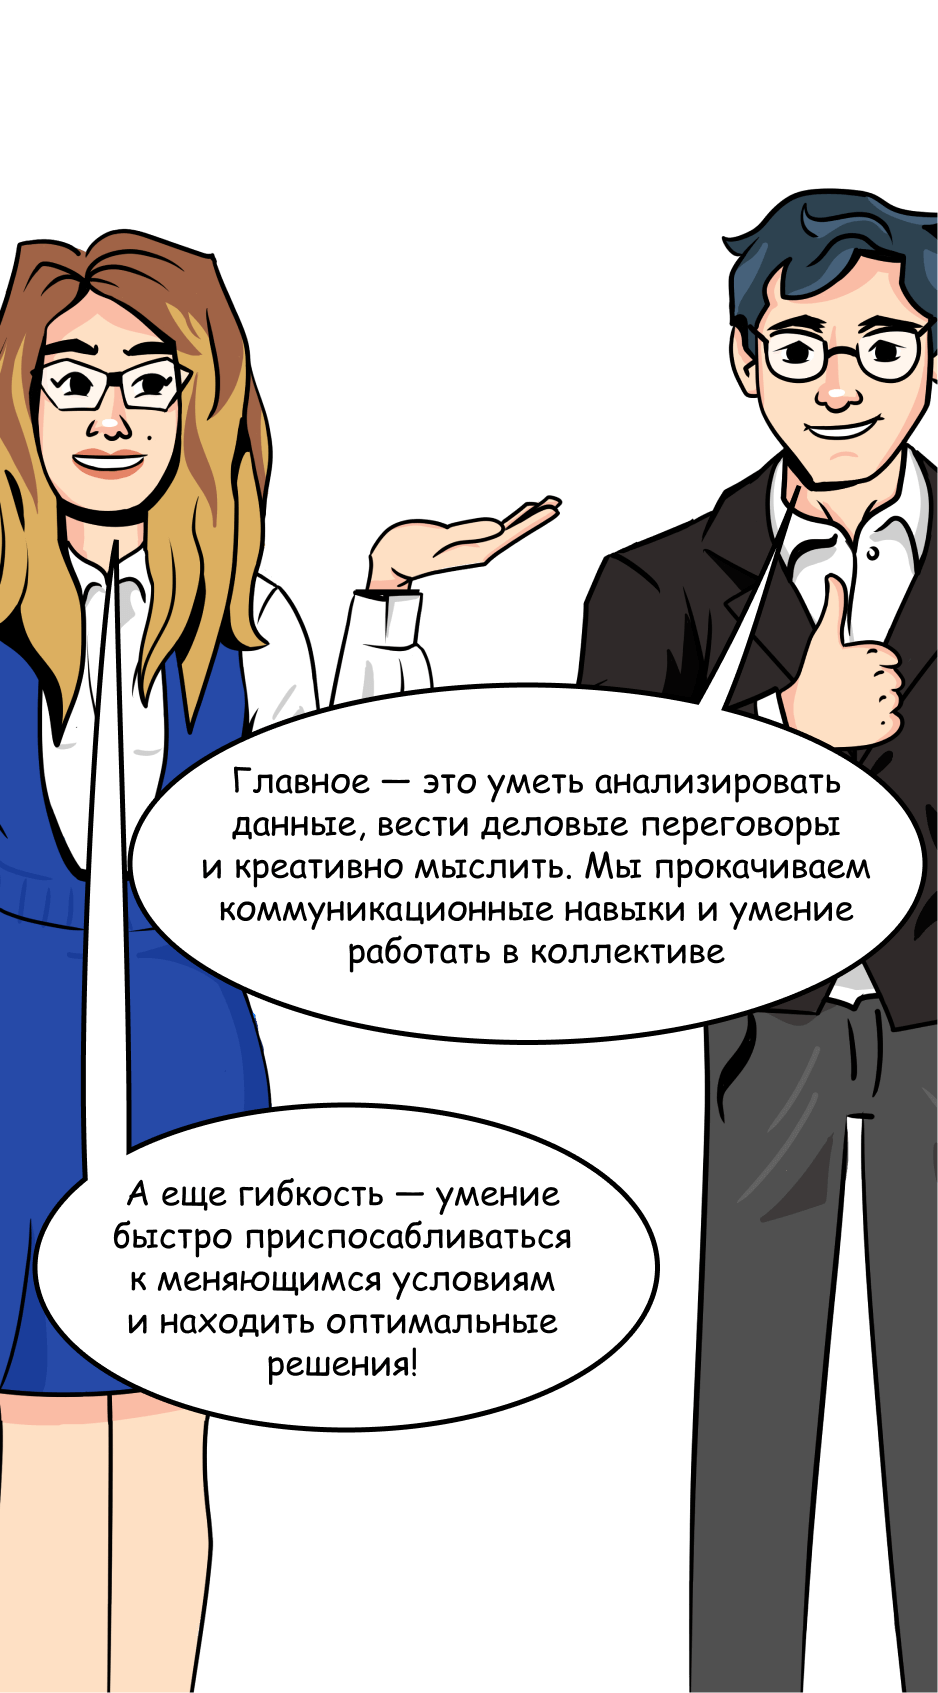
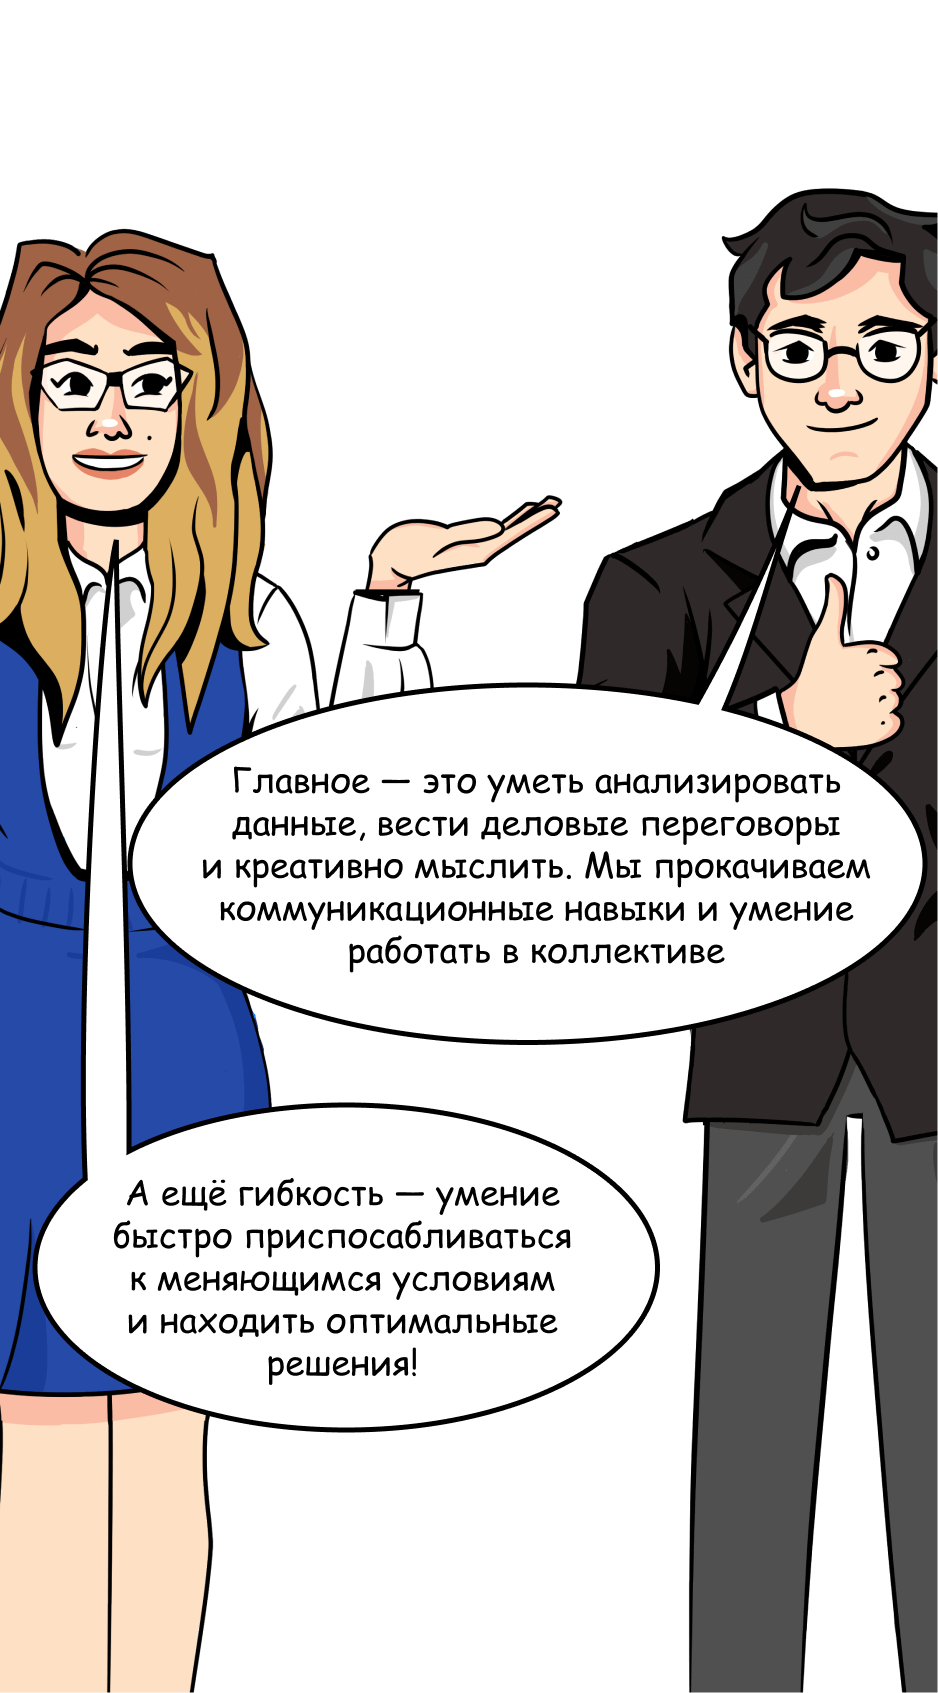
fix ё

Changed region(s): [[0.7111, 0.5529, 1.0, 0.6757], [0.7729, 0.0921, 1.0, 0.215], [0.8657, 0.2457, 0.9275, 0.2764]]

diff --git a/src/constants/testQuestions.js b/src/constants/testQuestions.js
@@ -66,9 +66,9 @@ export const testQuestions = [
         number: 8,
         text: 'Какую награду получил ВТБ за усердную работу над развитием бренда работодателя и практиками в области управления персоналом?',
         answers: [
-            {id: 0, text: 'Премия «Бренд Года» от Ассоциации по Управлению Персоналом', isCorrect: false},
-            {id: 1, text: 'Почетный Знак «HR-Инноватор» от Международной Ассоциации HR-Экспертов', isCorrect: false},
-            {id: 2, text: 'Топ-3 лучших работодателей России по версии HeadHunter', isCorrect: true},
+            {id: 0, text: 'Премия «Бренд Года» от Ассоциации по Управлению Персоналом', isCorrect: false},
+            {id: 1, text: 'Почётный Знак «HR-Инноватор» от Международной Ассоциации HR-Экспертов', isCorrect: false},
+            {id: 2, text: 'Топ-3 лучших работодателей России по версии HeadHunter', isCorrect: true},
         ]
     },
     {
@@ -85,8 +85,8 @@ export const testQuestions = [
         text: 'Что такое трекер стажировки в ВТБ?',
         answers: [
             {id: 0, text: 'Платформа, которая позволяет контролировать этапы прохождения стажировки, отслеживать прогресс обучения и ставить новые цели', isCorrect: true},
-            {id: 1, text: 'Чек-лист для нанимающего менеджера, по которому он проверяет выполнение задач стажерами', isCorrect: false},
-            {id: 2, text: 'Программа, которая фиксирует время, которое стажер провел за рабочим компьютером', isCorrect: false},
+            {id: 1, text: 'Чек-лист для нанимающего менеджера, по которому он проверяет выполнение задач стажёрами', isCorrect: false},
+            {id: 2, text: 'Программа, которая фиксирует время, которое стажёр провел за рабочим компьютером', isCorrect: false},
         ]
     },
 ]

diff --git a/src/components/screens/floor2/Game29.js b/src/components/screens/floor2/Game29.js
@@ -20,7 +20,7 @@ export function Game29() {
 
     const finishText = 'В наших карьерных сообществах в VK и TG ' + 
     '«Карьера в ВТБ» мы рассказываем об актуальных вакансиях, секретах построения успешной ' + 
-    'карьеры и внутренней жизни банка. А еще — делимся историями о профессиональном пути наших ' + 
+    'карьеры и внутренней жизни банка. А ещё — делимся историями о профессиональном пути наших ' + 
     'коллег и объясняем, почему люди — большая ценность и движущая сила ВТБ';
 
     return (

diff --git a/src/components/screens/floor5/Game43.js b/src/components/screens/floor5/Game43.js
@@ -11,5 +11,5 @@ export function Game43() {
         game: SCREENS.GAME_4_8
     }
 
-    return <QuestionScreen answerScreens={answerScreens} image={questionImg} floorId={5} isBigPicture/>
+    return <QuestionScreen answerScreens={answerScreens} image={questionImg} floorId={5}/>
 }
